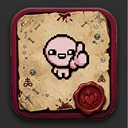
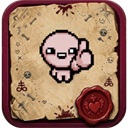
Runalyzer: nombres nuevos de las descargas e icono sin el fondo gris

diff --git a/README.md b/README.md
@@ -10,7 +10,7 @@ y qué te conviene sacar después, leyendo tu propia partida.
 <p align="center">
 <a href="https://github.com/alexmarny/Runalyzer-TBOI/releases/latest/download/Runalyzer-setup.exe"><b>⬇ Descargar para Windows</b></a>
 &nbsp;·&nbsp;
-<a href="https://github.com/alexmarny/Runalyzer-TBOI/releases/latest/download/Isaac-Progreso-SteamDeck.tar.gz"><b>⬇ Descargar para Steam Deck / Linux</b></a>
+<a href="https://github.com/alexmarny/Runalyzer-TBOI/releases/latest/download/Runalyzer-SteamDeck.tar.gz"><b>⬇ Descargar para Steam Deck / Linux</b></a>
 <br><sub>Siempre la última versión · <a href="https://github.com/alexmarny/Runalyzer-TBOI/releases">todas las versiones</a></sub>
 </p>
 
@@ -28,15 +28,15 @@ y qué te conviene sacar después, leyendo tu propia partida.
 1. Descarga **[Runalyzer-setup.exe](https://github.com/alexmarny/Runalyzer-TBOI/releases/latest/download/Runalyzer-setup.exe)** y ábrelo.
 2. Windows dirá **«Windows protegió su PC»**, porque el programa no está firmado (firmarlo cuesta dinero). Pulsa **«Más información»** y después **«Ejecutar de todas formas»**.
 3. Pulsa **«Instalar»**. No pide permisos de administrador: se instala solo para tu usuario.
-4. Al terminar se abre en tu navegador. Desde entonces la tienes en el menú Inicio como **«Isaac · Progreso»**.
+4. Al terminar se abre en tu navegador. Desde entonces la tienes en el menú Inicio como **«Runalyzer»**.
 
-Para quitarla: *Configuración → Aplicaciones → Isaac · Progreso → Desinstalar*.
+Para quitarla: *Configuración → Aplicaciones → Runalyzer → Desinstalar*.
 
 ## Instalar en Steam Deck (o Linux)
 
 1. Pasa al **Modo Escritorio** (botón Steam → Apagar → Cambiar a escritorio). Necesitas un navegador; si no tienes, instala Firefox o Chrome desde Discover.
-2. Descarga **[Isaac-Progreso-SteamDeck.tar.gz](https://github.com/alexmarny/Runalyzer-TBOI/releases/latest/download/Isaac-Progreso-SteamDeck.tar.gz)** y descomprímelo (clic derecho → Extraer → Extraer aquí).
-3. Entra en la carpeta y haz doble clic en **Isaac-Progreso** → «Ejecutar». Si dice que no se puede ejecutar: clic derecho → Propiedades → Permisos → marca «Es ejecutable».
+2. Descarga **[Runalyzer-SteamDeck.tar.gz](https://github.com/alexmarny/Runalyzer-TBOI/releases/latest/download/Runalyzer-SteamDeck.tar.gz)** y descomprímelo (clic derecho → Extraer → Extraer aquí).
+3. Entra en la carpeta y haz doble clic en **Runalyzer** → «Ejecutar». Si dice que no se puede ejecutar: clic derecho → Propiedades → Permisos → marca «Es ejecutable».
 4. Desde entonces la tienes en el menú de aplicaciones (en «Juegos»). No muevas la carpeta; si la mueves, ábrela una vez desde su sitio nuevo.
 
 En la Deck, el modo en directo solo funciona si juegas desde el Modo Escritorio: al volver al Modo Juego se cierra el escritorio y la herramienta con él.
